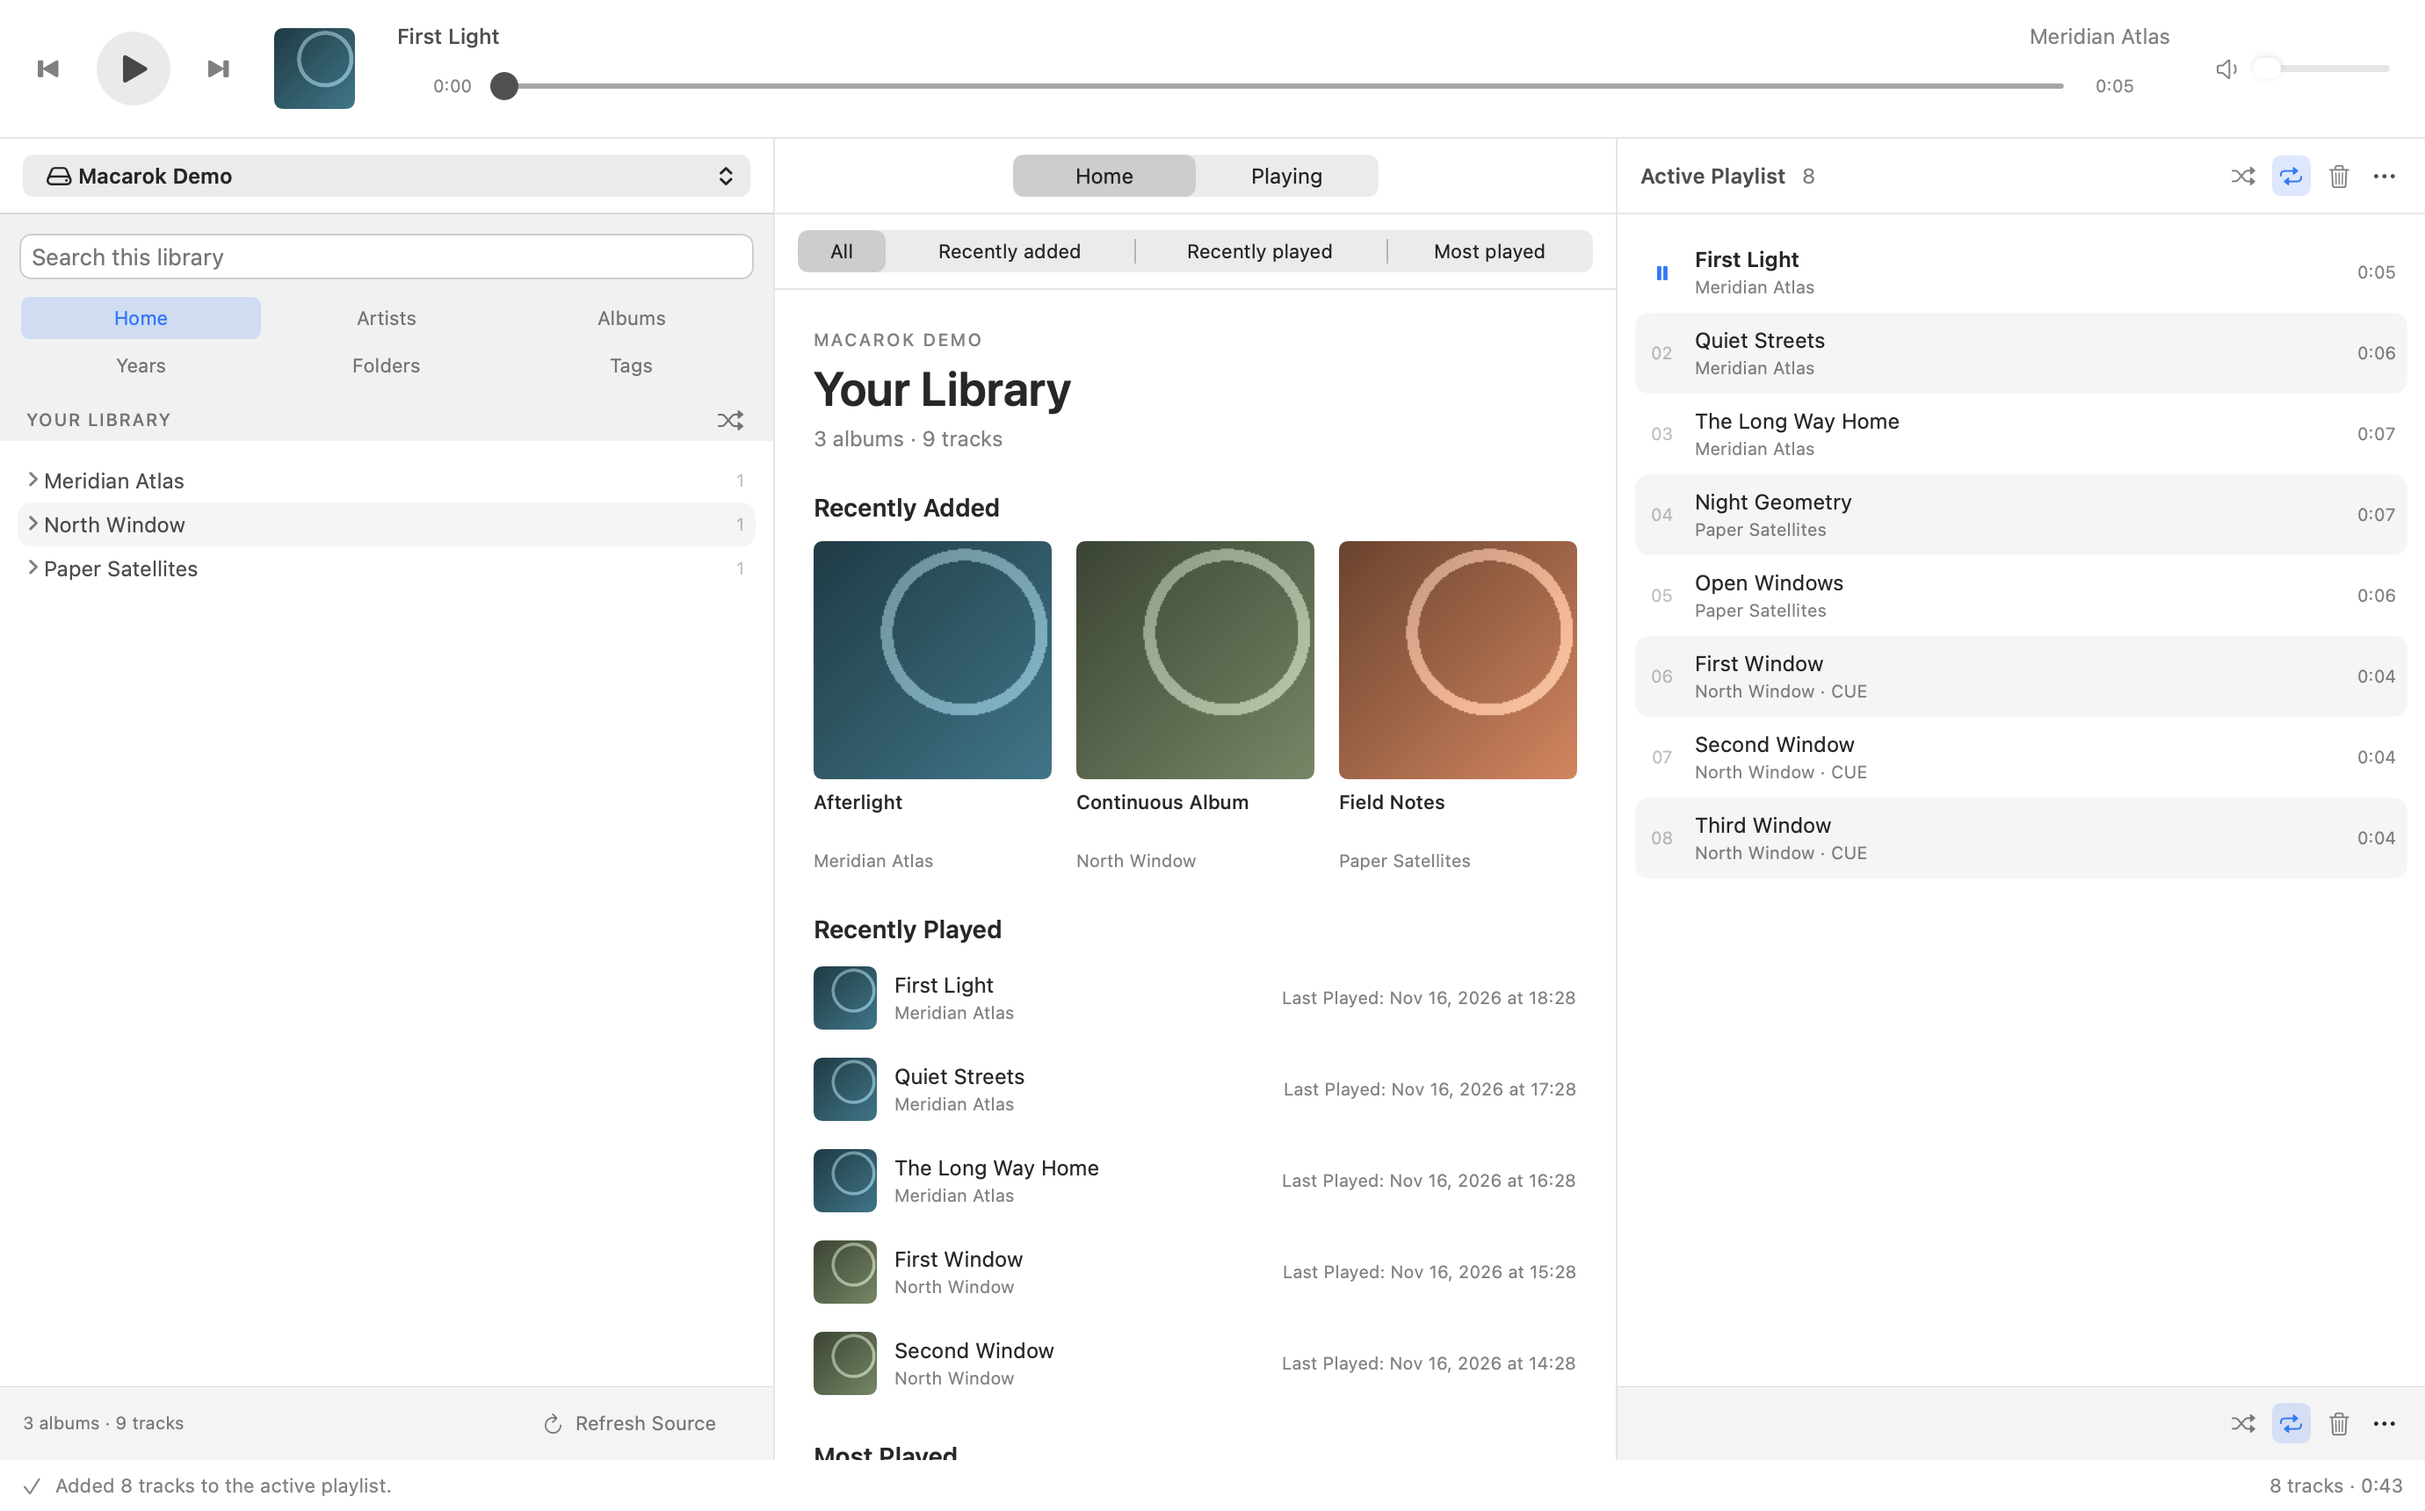
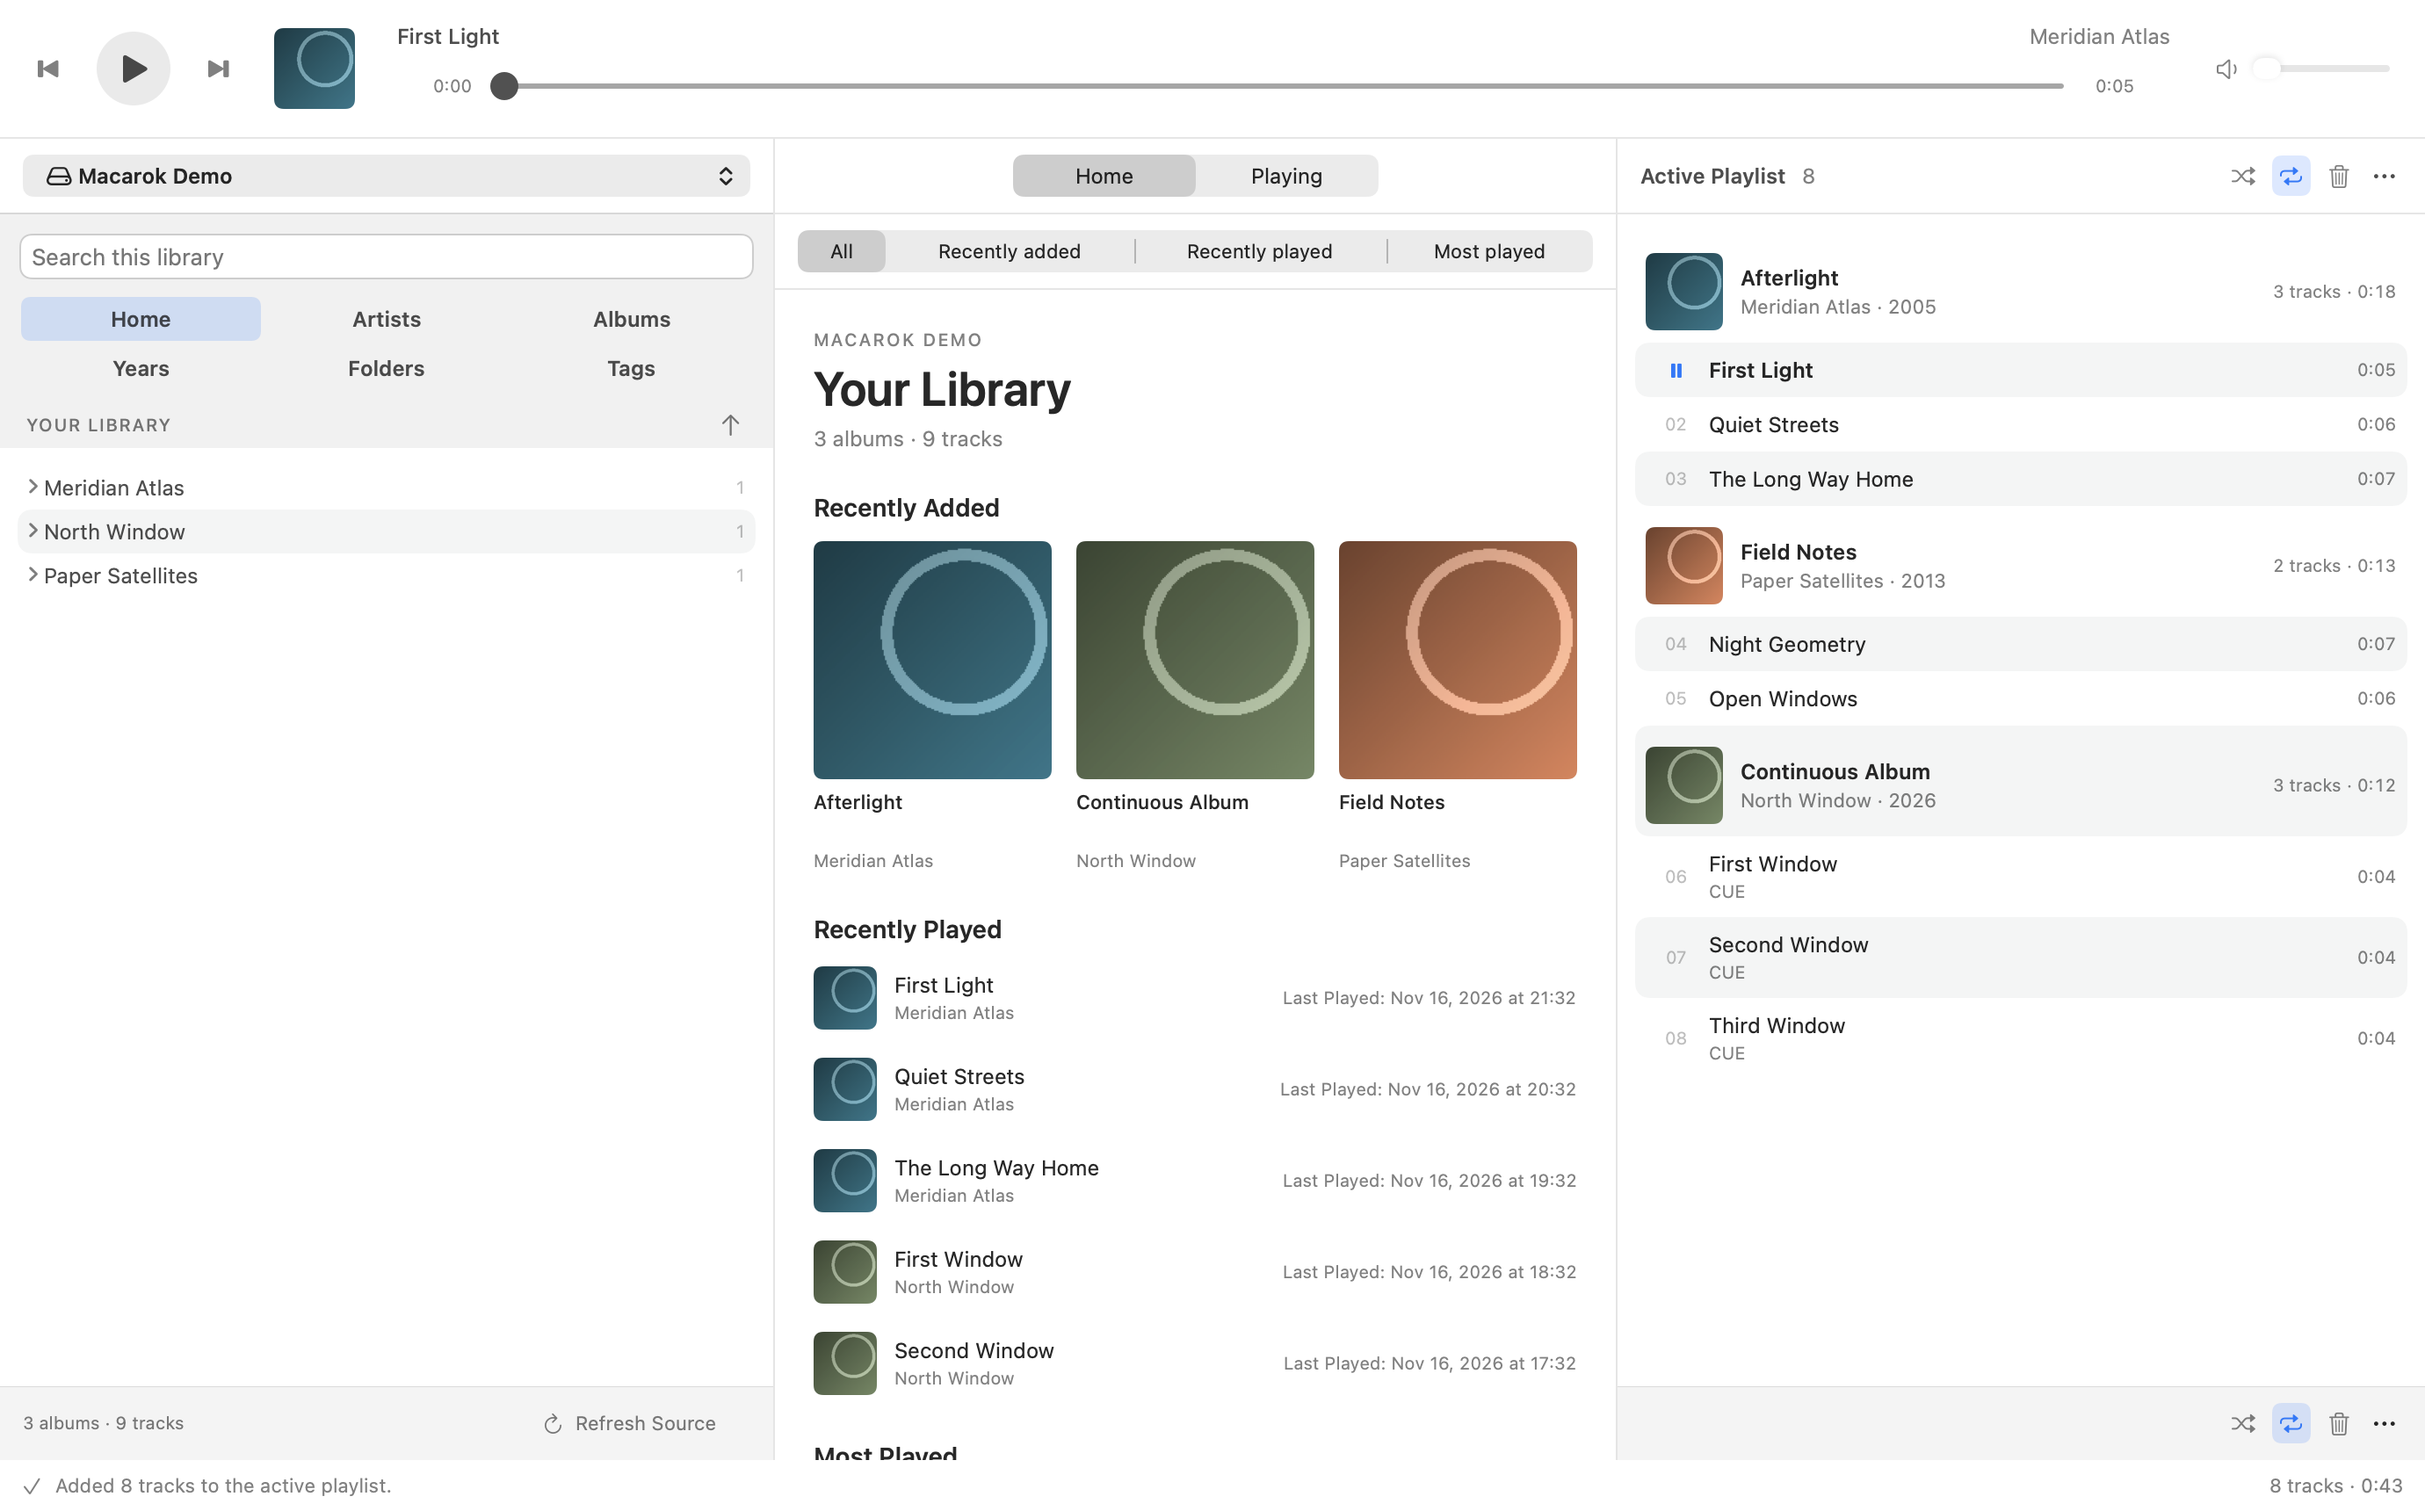
Refresh album-group previews and prepare Macarok 0.3.0

diff --git a/Tests/MacarokAppTests/NativeRenderingTests.swift b/Tests/MacarokAppTests/NativeRenderingTests.swift
@@ -200,7 +200,6 @@ final class NativeRenderingTests: XCTestCase {
             model.settings.playlistAlbumGroups = true
             try await render(QueuePane(model: model, player: model.player), size: NSSize(width: 330, height: 680), scheme: scheme,
                              destination: output.appendingPathComponent("playlist-album-groups-\(suffix).png"))
-            model.settings.playlistAlbumGroups = false
             model.libraryScope = .source(RadioLibrary.sourceID)
             await model.waitForLibraryLoad()
             model.contextPage = .home

diff --git a/docs/releases/0.3.0.md b/docs/releases/0.3.0.md
@@ -1,0 +1,29 @@
+# Macarok 0.3.0
+
+Macarok 0.3.0 makes the library and the active playlist easier to organize: sortable library lists, album groups in the playlist, native selection, drag and drop, and more forgiving automatic lyrics.
+
+## Highlights
+
+- **Library sorting**: one arrow in each library list switches between ascending and descending order. Artists, albums, years, folders, and tags remember their own order; years are newest first by default.
+- **Album groups in the playlist**, enabled by default: consecutive tracks from the same album share a header with artwork, artist, year, track count, and duration. The option is available in the playlist menus and in Settings.
+- **Native library selection**: the active artist, album, track, or folder uses the standard blue selection. Double-click plays the selection.
+- **Drag and drop**: drag artists, albums, tracks, or folders from the library into the playlist, at any position. Playlist rows can be reordered by grabbing them anywhere, and insertions and moves support Undo.
+- Library tabs use the same bold typography as the panel titles.
+
+## Lyrics
+
+- Automatic LRCLIB lookups ignore placeholder metadata such as "[Unknown Album]", retry without the album, and then search with simplified titles (no track numbers, remaster or version suffixes, or featured artists) and the primary artist.
+- A lenient match is accepted only when the artist matches, the duration is within three seconds, and it is not a different edition such as a live, acoustic, demo, or remix take. Synced lyrics are preferred.
+- Find Lyrics leaves placeholder fields blank.
+
+## Download and install
+
+Download `Macarok-0.3.0-arm64.dmg`, open it, and drag Macarok to Applications. A SHA-256 checksum is provided as a separate release asset.
+
+Requires an Apple Silicon Mac and macOS 14 or later. The application is ad-hoc signed and is not notarized by Apple; macOS may block the first launch.
+
+## License and scope
+
+Macarok is released under the MIT license. Bundled dependencies retain their own licenses and notices, included in the application.
+
+This remains an early release. Gapless playback is optional; crossfade, HLS radio, dedicated commercial-service playback, and cloud-storage integration are outside this release. Bandcamp uses the existing OpenSubsonic connector. See [verification and remaining manual checks](https://github.com/armateurlabs/macarok/blob/v0.3.0/docs/VERIFICATION.md).

diff --git a/README.md b/README.md
@@ -16,11 +16,11 @@ Get the DMG from [GitHub Releases](https://github.com/armateurlabs/macarok/relea
 
 Native SwiftUI views rendered from the current application with a synthetic music collection.
 
-**Home · Light** — library browsing, recently added albums, listening history, and the active playlist.
+**Home · Light** — library browsing, recently added albums, listening history, and the active playlist grouped by album.
 
 ![Macarok Home in Light appearance](design/native/home-light.png)
 
-**Playing · Dark** — album context and individual CUE tracks alongside the library and playlist.
+**Playing · Dark** — album context and individual CUE tracks, with the album selected in the library and the playlist grouped by album.
 
 ![Macarok Playing in Dark appearance](design/native/cue-album-dark.png)
 
@@ -68,7 +68,7 @@ The wolf-and-apple icon is generated from the checked-in artwork at every build.
 
 Open `Package.swift` in Xcode for development, or use `swift build` and `swift test` from the command line. The app bundle is the recommended way to run the application with its resources and macOS integration.
 
-To build a versioned disk image locally, run `./scripts/package-dmg.sh 0.2.1 3`. Tags such as `v0.2.1` trigger the GitHub Actions release workflow. See [release procedures](docs/RELEASING.md).
+To build a versioned disk image locally, run `./scripts/package-dmg.sh 0.3.0 3`. Tags such as `v0.3.0` trigger the GitHub Actions release workflow. See [release procedures](docs/RELEASING.md).
 
 ## Native application
 
